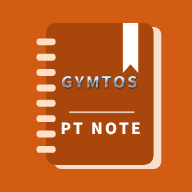
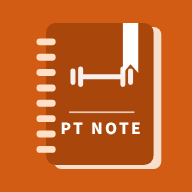
짐토스 로고 전부 뺌: 위 막대 PT NOTE 글자, 앱 아이콘·선생님 아이콘·og.jpg 새로, 안내서·리포트 브랜드
Claude-Session: https://claude.ai/code/session_01RdMHchgwqezTpV2LneVZW2

Changed region(s): [[0.3125, 0.3438, 0.7188, 0.4688]]

diff --git a/404.html b/404.html
@@ -15,7 +15,7 @@
 <link rel="preconnect" href="https://fonts.googleapis.com">
 <link rel="preconnect" href="https://fonts.gstatic.com" crossorigin>
 <link rel="stylesheet" href="https://fonts.googleapis.com/css2?family=Noto+Sans+KR:wght@400;500;700;900&display=swap">
-<link rel="stylesheet" href="/assets/style.css?v=2611201119">
+<link rel="stylesheet" href="/assets/style.css?v=2611201328">
 <!-- 2026-11-12: 선생님 페이지 "＋ 새 회원 노트 만들기"로 만든 회원은 폴더(data.js)가 없음 → GitHub Pages가 이 404.html을 보여 줌.
      주소 /m/<주소>/ 에서 회원 주소를 읽고, 출석 창고 저장소(pub:m:<주소>:profile)에서 노트 정보를 받아 app.js로 그림. -->
 </head>
@@ -24,7 +24,7 @@
   <symbol id="i-check" viewBox="0 0 12 12"><path d="M2.4 6.3 5 8.7l4.6-5.2" fill="none" stroke="#fff" stroke-width="1.9" stroke-linecap="round" stroke-linejoin="round"/></symbol>
   <symbol id="i-x" viewBox="0 0 12 12"><path d="M3.3 3.3l5.4 5.4M8.7 3.3 3.3 8.7" fill="none" stroke="#fff" stroke-width="1.9" stroke-linecap="round"/></symbol>
 </svg>
-<header class="bar"><div class="bar-in"><a href="#home"><img src="../../assets/logo.png" alt="GYMTOS"></a><span id="barName">PT 노트</span></div></header>
+<header class="bar"><div class="bar-in"><a href="#home"><b class="bar-brand">PT NOTE</b></a><span id="barName">PT 노트</span></div></header>
 <main class="wrap"><div class="view" id="view" aria-live="polite"></div></main>
 <nav class="tabs" aria-label="메뉴"><div class="tabs-in">
   <a href="#home" data-tab="home"><svg viewBox="0 0 24 24" fill="none" stroke="currentColor" stroke-width="2" stroke-linejoin="round"><path d="M3.5 10.5 12 4l8.5 6.5V20a1 1 0 0 1-1 1H15v-6H9v6H4.5a1 1 0 0 1-1-1z"/></svg>홈</a>
@@ -33,7 +33,7 @@
   <a href="#diet" data-tab="diet"><svg viewBox="0 0 24 24" fill="none" stroke="currentColor" stroke-width="2" stroke-linecap="round"><circle cx="13" cy="13" r="6.5"/><path d="M4 4v6M6.5 4v6M4 7h2.5M5.2 10v10"/></svg>식단</a>
   <a href="#notice" data-tab="notice"><svg viewBox="0 0 24 24" fill="none" stroke="currentColor" stroke-width="2" stroke-linejoin="round"><path d="M4 10v4h3l6 4V6L7 10z"/><path d="M16.5 9.5a3.5 3.5 0 0 1 0 5M19 7a7 7 0 0 1 0 10" stroke-linecap="round"/></svg>공지</a>
 </div></nav>
-<script src="/assets/site.js?v=2611201119"></script>
+<script src="/assets/site.js?v=2611201328"></script>
 <script>
 (function () {
   var mm = location.pathname.match(/^\/m\/([a-z0-9-]{3,40})\/?$/);
@@ -55,8 +55,8 @@
     if (M.sex === "F") { document.getElementById("tc").setAttribute("content", "#D35C14"); document.getElementById("ic").href = "/assets/icon-f-192.png"; document.getElementById("ati").href = "/assets/icon-f-180.png"; }
     document.documentElement.setAttribute("data-sex", M.sex === "F" ? "F" : "M");
     view.innerHTML = "";
-    var a = document.createElement("script"); a.src = "/assets/exicons.js?v=2611201119";
-    a.onload = a.onerror = function () { var b = document.createElement("script"); b.src = "/assets/app.js?v=2611201119"; document.body.appendChild(b); };
+    var a = document.createElement("script"); a.src = "/assets/exicons.js?v=2611201328";
+    a.onload = a.onerror = function () { var b = document.createElement("script"); b.src = "/assets/app.js?v=2611201328"; document.body.appendChild(b); };
     document.body.appendChild(a);
   }
   var LS = "ptnote:" + slug + ":profile", cached = null;

diff --git a/coach-co8rde/index.html b/coach-co8rde/index.html
@@ -16,8 +16,8 @@
 <link rel="preconnect" href="https://fonts.googleapis.com">
 <link rel="preconnect" href="https://fonts.gstatic.com" crossorigin>
 <link rel="stylesheet" href="https://fonts.googleapis.com/css2?family=Noto+Sans+KR:wght@400;500;700;900&display=swap">
-<link rel="stylesheet" href="/assets/style.css?v=2611201119">
-<script src="/assets/site.js?v=2611201119"></script>
+<link rel="stylesheet" href="/assets/style.css?v=2611201328">
+<script src="/assets/site.js?v=2611201328"></script>
 <style>
 .wrap { padding-bottom: calc(40px + env(safe-area-inset-bottom, 0px)); }
 .sum { display: grid; grid-template-columns: repeat(3, 1fr); gap: 8px; }
@@ -258,7 +258,7 @@ body.pad .mcard.sel .av { outline: 3px solid var(--key); outline-offset: 3px; }
 </style>
 </head>
 <body>
-<header class="bar"><div class="bar-in"><img src="/assets/logo.png" alt="GYMTOS"><div class="bar-r"><span>선생님 페이지</span>
+<header class="bar"><div class="bar-in"><b class="bar-brand">PT NOTE</b><div class="bar-r"><span>선생님 페이지</span>
   <button type="button" class="tmenu" id="tmenu" hidden aria-label="선생님별로 보기" aria-haspopup="dialog"><svg viewBox="0 0 24 24" aria-hidden="true"><path d="M4 7h16M4 12h16M4 17h16" stroke="currentColor" stroke-width="2.4" stroke-linecap="round"/></svg><b id="tmenuLab">전체</b></button></div></div></header>
 <div class="tdraw" id="tdraw" hidden><div class="tdbg" id="tdbg"></div>
   <nav class="tdpanel" role="dialog" aria-modal="true" aria-label="선생님별로 보기"><div class="tdh"><b>선생님별로 보기</b><button type="button" id="tdClose" aria-label="닫기">✕</button></div>
@@ -997,7 +997,7 @@ body.pad .mcard.sel .av { outline: 3px solid var(--key); outline-offset: 3px; }
      2026-11-12 처음엔 Web Worker였는데 아이폰 사파리에서 동욱쌤 회원이 안 보여서 iframe으로 바꿈 */
   var XF = '<!doctype html><meta charset="utf-8"><script>(function(){var d=__D__,t="?t="+Date.now(),o={api:"",members:[]};' +
     'function ld(u){return new Promise(function(ok){var s=document.createElement("script");s.src=u;s.onload=s.onerror=function(){ok()};document.head.appendChild(s);});}' +
-    'ld(d.site+"/assets/site.js?v=2611201119"+t).then(function(){o.api=(window.SITE||{}).att_api||"";return ld(d.site+"/"+d.coach+"/members.js"+t);}).then(function(){' +
+    'ld(d.site+"/assets/site.js?v=2611201328"+t).then(function(){o.api=(window.SITE||{}).att_api||"";return ld(d.site+"/"+d.coach+"/members.js"+t);}).then(function(){' +
     'var L=(window.COACH_MEMBERS||[]).filter(function(x){return /^[a-z0-9-]{3,40}$/.test(x)}),i=0;' +
     'function nx(){if(i>=L.length){parent.postMessage(JSON.stringify({xpt:d.id,o:o}),"*");return;}var sl=L[i++];window.MEMBER=null;' +
     'ld(d.site+"/m/"+sl+"/data.js"+t).then(function(){if(window.MEMBER){try{o.members.push({slug:sl,M:JSON.parse(JSON.stringify(window.MEMBER))});}catch(e){}}nx();});}nx();});})();<\/script>';

diff --git a/m/chaewon-ryfvmy/index.html b/m/chaewon-ryfvmy/index.html
@@ -24,14 +24,14 @@
 <link rel="preconnect" href="https://fonts.gstatic.com" crossorigin>
 <link rel="stylesheet" href="https://fonts.googleapis.com/css2?family=Noto+Sans+KR:wght@400;500;700;900&display=swap">
 <script>/* 페이지 넘어갈 때 부드럽게 (2026-11-12) */try{if(localStorage.getItem("ptcoach")||sessionStorage.getItem("ptcoach"))document.documentElement.classList.add("nosp")}catch(e){}addEventListener("pagereveal",function(e){if(!e.viewTransition)return;var d=null;try{d=sessionStorage.getItem("vtdir");sessionStorage.removeItem("vtdir")}catch(x){}var n=window.navigation&&navigation.activation;if(d==="back"||(d!=="fwd"&&n&&n.navigationType==="traverse"))document.documentElement.classList.add("vt-back");e.viewTransition.finished.then(function(){document.documentElement.classList.remove("vt-back")},function(){})});</script>
-<link rel="stylesheet" href="../../assets/style.css?v=2611201119">
+<link rel="stylesheet" href="../../assets/style.css?v=2611201328">
 </head>
 <body>
 <svg width="0" height="0" style="position:absolute" aria-hidden="true">
   <symbol id="i-check" viewBox="0 0 12 12"><path d="M2.4 6.3 5 8.7l4.6-5.2" fill="none" stroke="#fff" stroke-width="1.9" stroke-linecap="round" stroke-linejoin="round"/></symbol>
   <symbol id="i-x" viewBox="0 0 12 12"><path d="M3.3 3.3l5.4 5.4M8.7 3.3 3.3 8.7" fill="none" stroke="#fff" stroke-width="1.9" stroke-linecap="round"/></symbol>
 </svg>
-<header class="bar"><div class="bar-in"><a href="#home"><img src="../../assets/logo.png" alt="GYMTOS"></a><span>채와와 회원님 PT 노트</span></div></header>
+<header class="bar"><div class="bar-in"><a href="#home"><b class="bar-brand">PT NOTE</b></a><span>채와와 회원님 PT 노트</span></div></header>
 <main class="wrap"><div class="view" id="view" aria-live="polite"></div></main>
 <nav class="tabs" aria-label="메뉴"><div class="tabs-in">
   <a href="#home" data-tab="home"><svg viewBox="0 0 24 24" fill="none" stroke="currentColor" stroke-width="2" stroke-linejoin="round"><path d="M3.5 10.5 12 4l8.5 6.5V20a1 1 0 0 1-1 1H15v-6H9v6H4.5a1 1 0 0 1-1-1z"/></svg>홈</a>
@@ -41,8 +41,8 @@
   <a href="#notice" data-tab="notice"><svg viewBox="0 0 24 24" fill="none" stroke="currentColor" stroke-width="2" stroke-linejoin="round"><path d="M4 10v4h3l6 4V6L7 10z"/><path d="M16.5 9.5a3.5 3.5 0 0 1 0 5M19 7a7 7 0 0 1 0 10" stroke-linecap="round"/></svg>공지</a>
 </div></nav>
 <script src="data.js"></script>
-<script src="../../assets/site.js?v=2611201119"></script>
-<script src="../../assets/exicons.js?v=2611201119"></script>
-<script src="../../assets/app.js?v=2611201119"></script>
+<script src="../../assets/site.js?v=2611201328"></script>
+<script src="../../assets/exicons.js?v=2611201328"></script>
+<script src="../../assets/app.js?v=2611201328"></script>
 </body>
 </html>

diff --git a/m/dahye-dfpttw/index.html b/m/dahye-dfpttw/index.html
@@ -24,14 +24,14 @@
 <link rel="preconnect" href="https://fonts.gstatic.com" crossorigin>
 <link rel="stylesheet" href="https://fonts.googleapis.com/css2?family=Noto+Sans+KR:wght@400;500;700;900&display=swap">
 <script>/* 페이지 넘어갈 때 부드럽게 (2026-11-12) */try{if(localStorage.getItem("ptcoach")||sessionStorage.getItem("ptcoach"))document.documentElement.classList.add("nosp")}catch(e){}addEventListener("pagereveal",function(e){if(!e.viewTransition)return;var d=null;try{d=sessionStorage.getItem("vtdir");sessionStorage.removeItem("vtdir")}catch(x){}var n=window.navigation&&navigation.activation;if(d==="back"||(d!=="fwd"&&n&&n.navigationType==="traverse"))document.documentElement.classList.add("vt-back");e.viewTransition.finished.then(function(){document.documentElement.classList.remove("vt-back")},function(){})});</script>
-<link rel="stylesheet" href="../../assets/style.css?v=2611201119">
+<link rel="stylesheet" href="../../assets/style.css?v=2611201328">
 </head>
 <body>
 <svg width="0" height="0" style="position:absolute" aria-hidden="true">
   <symbol id="i-check" viewBox="0 0 12 12"><path d="M2.4 6.3 5 8.7l4.6-5.2" fill="none" stroke="#fff" stroke-width="1.9" stroke-linecap="round" stroke-linejoin="round"/></symbol>
   <symbol id="i-x" viewBox="0 0 12 12"><path d="M3.3 3.3l5.4 5.4M8.7 3.3 3.3 8.7" fill="none" stroke="#fff" stroke-width="1.9" stroke-linecap="round"/></symbol>
 </svg>
-<header class="bar"><div class="bar-in"><a href="#home"><img src="../../assets/logo.png" alt="GYMTOS"></a><span>이다혜 회원님 PT 노트</span></div></header>
+<header class="bar"><div class="bar-in"><a href="#home"><b class="bar-brand">PT NOTE</b></a><span>이다혜 회원님 PT 노트</span></div></header>
 <main class="wrap"><div class="view" id="view" aria-live="polite"></div></main>
 <nav class="tabs" aria-label="메뉴"><div class="tabs-in">
   <a href="#home" data-tab="home"><svg viewBox="0 0 24 24" fill="none" stroke="currentColor" stroke-width="2" stroke-linejoin="round"><path d="M3.5 10.5 12 4l8.5 6.5V20a1 1 0 0 1-1 1H15v-6H9v6H4.5a1 1 0 0 1-1-1z"/></svg>홈</a>
@@ -41,8 +41,8 @@
   <a href="#notice" data-tab="notice"><svg viewBox="0 0 24 24" fill="none" stroke="currentColor" stroke-width="2" stroke-linejoin="round"><path d="M4 10v4h3l6 4V6L7 10z"/><path d="M16.5 9.5a3.5 3.5 0 0 1 0 5M19 7a7 7 0 0 1 0 10" stroke-linecap="round"/></svg>공지</a>
 </div></nav>
 <script src="data.js"></script>
-<script src="../../assets/site.js?v=2611201119"></script>
-<script src="../../assets/exicons.js?v=2611201119"></script>
-<script src="../../assets/app.js?v=2611201119"></script>
+<script src="../../assets/site.js?v=2611201328"></script>
+<script src="../../assets/exicons.js?v=2611201328"></script>
+<script src="../../assets/app.js?v=2611201328"></script>
 </body>
 </html>

diff --git a/m/eunjeong-tojo9l/index.html b/m/eunjeong-tojo9l/index.html
@@ -24,14 +24,14 @@
 <link rel="preconnect" href="https://fonts.gstatic.com" crossorigin>
 <link rel="stylesheet" href="https://fonts.googleapis.com/css2?family=Noto+Sans+KR:wght@400;500;700;900&display=swap">
 <script>/* 페이지 넘어갈 때 부드럽게 (2026-11-12) */try{if(localStorage.getItem("ptcoach")||sessionStorage.getItem("ptcoach"))document.documentElement.classList.add("nosp")}catch(e){}addEventListener("pagereveal",function(e){if(!e.viewTransition)return;var d=null;try{d=sessionStorage.getItem("vtdir");sessionStorage.removeItem("vtdir")}catch(x){}var n=window.navigation&&navigation.activation;if(d==="back"||(d!=="fwd"&&n&&n.navigationType==="traverse"))document.documentElement.classList.add("vt-back");e.viewTransition.finished.then(function(){document.documentElement.classList.remove("vt-back")},function(){})});</script>
-<link rel="stylesheet" href="../../assets/style.css?v=2611201119">
+<link rel="stylesheet" href="../../assets/style.css?v=2611201328">
 </head>
 <body>
 <svg width="0" height="0" style="position:absolute" aria-hidden="true">
   <symbol id="i-check" viewBox="0 0 12 12"><path d="M2.4 6.3 5 8.7l4.6-5.2" fill="none" stroke="#fff" stroke-width="1.9" stroke-linecap="round" stroke-linejoin="round"/></symbol>
   <symbol id="i-x" viewBox="0 0 12 12"><path d="M3.3 3.3l5.4 5.4M8.7 3.3 3.3 8.7" fill="none" stroke="#fff" stroke-width="1.9" stroke-linecap="round"/></symbol>
 </svg>
-<header class="bar"><div class="bar-in"><a href="#home"><img src="../../assets/logo.png" alt="GYMTOS"></a><span>유은정 회원님 PT 노트</span></div></header>
+<header class="bar"><div class="bar-in"><a href="#home"><b class="bar-brand">PT NOTE</b></a><span>유은정 회원님 PT 노트</span></div></header>
 <main class="wrap"><div class="view" id="view" aria-live="polite"></div></main>
 <nav class="tabs" aria-label="메뉴"><div class="tabs-in">
   <a href="#home" data-tab="home"><svg viewBox="0 0 24 24" fill="none" stroke="currentColor" stroke-width="2" stroke-linejoin="round"><path d="M3.5 10.5 12 4l8.5 6.5V20a1 1 0 0 1-1 1H15v-6H9v6H4.5a1 1 0 0 1-1-1z"/></svg>홈</a>
@@ -41,8 +41,8 @@
   <a href="#notice" data-tab="notice"><svg viewBox="0 0 24 24" fill="none" stroke="currentColor" stroke-width="2" stroke-linejoin="round"><path d="M4 10v4h3l6 4V6L7 10z"/><path d="M16.5 9.5a3.5 3.5 0 0 1 0 5M19 7a7 7 0 0 1 0 10" stroke-linecap="round"/></svg>공지</a>
 </div></nav>
 <script src="data.js"></script>
-<script src="../../assets/site.js?v=2611201119"></script>
-<script src="../../assets/exicons.js?v=2611201119"></script>
-<script src="../../assets/app.js?v=2611201119"></script>
+<script src="../../assets/site.js?v=2611201328"></script>
+<script src="../../assets/exicons.js?v=2611201328"></script>
+<script src="../../assets/app.js?v=2611201328"></script>
 </body>
 </html>

diff --git a/m/heeran-bh16wb/index.html b/m/heeran-bh16wb/index.html
@@ -24,14 +24,14 @@
 <link rel="preconnect" href="https://fonts.gstatic.com" crossorigin>
 <link rel="stylesheet" href="https://fonts.googleapis.com/css2?family=Noto+Sans+KR:wght@400;500;700;900&display=swap">
 <script>/* 페이지 넘어갈 때 부드럽게 (2026-11-12) */try{if(localStorage.getItem("ptcoach")||sessionStorage.getItem("ptcoach"))document.documentElement.classList.add("nosp")}catch(e){}addEventListener("pagereveal",function(e){if(!e.viewTransition)return;var d=null;try{d=sessionStorage.getItem("vtdir");sessionStorage.removeItem("vtdir")}catch(x){}var n=window.navigation&&navigation.activation;if(d==="back"||(d!=="fwd"&&n&&n.navigationType==="traverse"))document.documentElement.classList.add("vt-back");e.viewTransition.finished.then(function(){document.documentElement.classList.remove("vt-back")},function(){})});</script>
-<link rel="stylesheet" href="../../assets/style.css?v=2611201119">
+<link rel="stylesheet" href="../../assets/style.css?v=2611201328">
 </head>
 <body>
 <svg width="0" height="0" style="position:absolute" aria-hidden="true">
   <symbol id="i-check" viewBox="0 0 12 12"><path d="M2.4 6.3 5 8.7l4.6-5.2" fill="none" stroke="#fff" stroke-width="1.9" stroke-linecap="round" stroke-linejoin="round"/></symbol>
   <symbol id="i-x" viewBox="0 0 12 12"><path d="M3.3 3.3l5.4 5.4M8.7 3.3 3.3 8.7" fill="none" stroke="#fff" stroke-width="1.9" stroke-linecap="round"/></symbol>
 </svg>
-<header class="bar"><div class="bar-in"><a href="#home"><img src="../../assets/logo.png" alt="GYMTOS"></a><span>양희란 회원님 PT 노트</span></div></header>
+<header class="bar"><div class="bar-in"><a href="#home"><b class="bar-brand">PT NOTE</b></a><span>양희란 회원님 PT 노트</span></div></header>
 <main class="wrap"><div class="view" id="view" aria-live="polite"></div></main>
 <nav class="tabs" aria-label="메뉴"><div class="tabs-in">
   <a href="#home" data-tab="home"><svg viewBox="0 0 24 24" fill="none" stroke="currentColor" stroke-width="2" stroke-linejoin="round"><path d="M3.5 10.5 12 4l8.5 6.5V20a1 1 0 0 1-1 1H15v-6H9v6H4.5a1 1 0 0 1-1-1z"/></svg>홈</a>
@@ -41,8 +41,8 @@
   <a href="#notice" data-tab="notice"><svg viewBox="0 0 24 24" fill="none" stroke="currentColor" stroke-width="2" stroke-linejoin="round"><path d="M4 10v4h3l6 4V6L7 10z"/><path d="M16.5 9.5a3.5 3.5 0 0 1 0 5M19 7a7 7 0 0 1 0 10" stroke-linecap="round"/></svg>공지</a>
 </div></nav>
 <script src="data.js"></script>
-<script src="../../assets/site.js?v=2611201119"></script>
-<script src="../../assets/exicons.js?v=2611201119"></script>
-<script src="../../assets/app.js?v=2611201119"></script>
+<script src="../../assets/site.js?v=2611201328"></script>
+<script src="../../assets/exicons.js?v=2611201328"></script>
+<script src="../../assets/app.js?v=2611201328"></script>
 </body>
 </html>

diff --git a/m/jihye-693h3o/index.html b/m/jihye-693h3o/index.html
@@ -24,14 +24,14 @@
 <link rel="preconnect" href="https://fonts.gstatic.com" crossorigin>
 <link rel="stylesheet" href="https://fonts.googleapis.com/css2?family=Noto+Sans+KR:wght@400;500;700;900&display=swap">
 <script>/* 페이지 넘어갈 때 부드럽게 (2026-11-12) */try{if(localStorage.getItem("ptcoach")||sessionStorage.getItem("ptcoach"))document.documentElement.classList.add("nosp")}catch(e){}addEventListener("pagereveal",function(e){if(!e.viewTransition)return;var d=null;try{d=sessionStorage.getItem("vtdir");sessionStorage.removeItem("vtdir")}catch(x){}var n=window.navigation&&navigation.activation;if(d==="back"||(d!=="fwd"&&n&&n.navigationType==="traverse"))document.documentElement.classList.add("vt-back");e.viewTransition.finished.then(function(){document.documentElement.classList.remove("vt-back")},function(){})});</script>
-<link rel="stylesheet" href="../../assets/style.css?v=2611201119">
+<link rel="stylesheet" href="../../assets/style.css?v=2611201328">
 </head>
 <body>
 <svg width="0" height="0" style="position:absolute" aria-hidden="true">
   <symbol id="i-check" viewBox="0 0 12 12"><path d="M2.4 6.3 5 8.7l4.6-5.2" fill="none" stroke="#fff" stroke-width="1.9" stroke-linecap="round" stroke-linejoin="round"/></symbol>
   <symbol id="i-x" viewBox="0 0 12 12"><path d="M3.3 3.3l5.4 5.4M8.7 3.3 3.3 8.7" fill="none" stroke="#fff" stroke-width="1.9" stroke-linecap="round"/></symbol>
 </svg>
-<header class="bar"><div class="bar-in"><a href="#home"><img src="../../assets/logo.png" alt="GYMTOS"></a><span>송지혜 회원님 PT 노트</span></div></header>
+<header class="bar"><div class="bar-in"><a href="#home"><b class="bar-brand">PT NOTE</b></a><span>송지혜 회원님 PT 노트</span></div></header>
 <main class="wrap"><div class="view" id="view" aria-live="polite"></div></main>
 <nav class="tabs" aria-label="메뉴"><div class="tabs-in">
   <a href="#home" data-tab="home"><svg viewBox="0 0 24 24" fill="none" stroke="currentColor" stroke-width="2" stroke-linejoin="round"><path d="M3.5 10.5 12 4l8.5 6.5V20a1 1 0 0 1-1 1H15v-6H9v6H4.5a1 1 0 0 1-1-1z"/></svg>홈</a>
@@ -41,8 +41,8 @@
   <a href="#notice" data-tab="notice"><svg viewBox="0 0 24 24" fill="none" stroke="currentColor" stroke-width="2" stroke-linejoin="round"><path d="M4 10v4h3l6 4V6L7 10z"/><path d="M16.5 9.5a3.5 3.5 0 0 1 0 5M19 7a7 7 0 0 1 0 10" stroke-linecap="round"/></svg>공지</a>
 </div></nav>
 <script src="data.js"></script>
-<script src="../../assets/site.js?v=2611201119"></script>
-<script src="../../assets/exicons.js?v=2611201119"></script>
-<script src="../../assets/app.js?v=2611201119"></script>
+<script src="../../assets/site.js?v=2611201328"></script>
+<script src="../../assets/exicons.js?v=2611201328"></script>
+<script src="../../assets/app.js?v=2611201328"></script>
 </body>
 </html>

diff --git a/m/jihyeon-d1xp2n/index.html b/m/jihyeon-d1xp2n/index.html
@@ -24,14 +24,14 @@
 <link rel="preconnect" href="https://fonts.gstatic.com" crossorigin>
 <link rel="stylesheet" href="https://fonts.googleapis.com/css2?family=Noto+Sans+KR:wght@400;500;700;900&display=swap">
 <script>/* 페이지 넘어갈 때 부드럽게 (2026-11-12) */try{if(localStorage.getItem("ptcoach")||sessionStorage.getItem("ptcoach"))document.documentElement.classList.add("nosp")}catch(e){}addEventListener("pagereveal",function(e){if(!e.viewTransition)return;var d=null;try{d=sessionStorage.getItem("vtdir");sessionStorage.removeItem("vtdir")}catch(x){}var n=window.navigation&&navigation.activation;if(d==="back"||(d!=="fwd"&&n&&n.navigationType==="traverse"))document.documentElement.classList.add("vt-back");e.viewTransition.finished.then(function(){document.documentElement.classList.remove("vt-back")},function(){})});</script>
-<link rel="stylesheet" href="../../assets/style.css?v=2611201119">
+<link rel="stylesheet" href="../../assets/style.css?v=2611201328">
 </head>
 <body>
 <svg width="0" height="0" style="position:absolute" aria-hidden="true">
   <symbol id="i-check" viewBox="0 0 12 12"><path d="M2.4 6.3 5 8.7l4.6-5.2" fill="none" stroke="#fff" stroke-width="1.9" stroke-linecap="round" stroke-linejoin="round"/></symbol>
   <symbol id="i-x" viewBox="0 0 12 12"><path d="M3.3 3.3l5.4 5.4M8.7 3.3 3.3 8.7" fill="none" stroke="#fff" stroke-width="1.9" stroke-linecap="round"/></symbol>
 </svg>
-<header class="bar"><div class="bar-in"><a href="#home"><img src="../../assets/logo.png" alt="GYMTOS"></a><span>홍지현 회원님 PT 노트</span></div></header>
+<header class="bar"><div class="bar-in"><a href="#home"><b class="bar-brand">PT NOTE</b></a><span>홍지현 회원님 PT 노트</span></div></header>
 <main class="wrap"><div class="view" id="view" aria-live="polite"></div></main>
 <nav class="tabs" aria-label="메뉴"><div class="tabs-in">
   <a href="#home" data-tab="home"><svg viewBox="0 0 24 24" fill="none" stroke="currentColor" stroke-width="2" stroke-linejoin="round"><path d="M3.5 10.5 12 4l8.5 6.5V20a1 1 0 0 1-1 1H15v-6H9v6H4.5a1 1 0 0 1-1-1z"/></svg>홈</a>
@@ -41,8 +41,8 @@
   <a href="#notice" data-tab="notice"><svg viewBox="0 0 24 24" fill="none" stroke="currentColor" stroke-width="2" stroke-linejoin="round"><path d="M4 10v4h3l6 4V6L7 10z"/><path d="M16.5 9.5a3.5 3.5 0 0 1 0 5M19 7a7 7 0 0 1 0 10" stroke-linecap="round"/></svg>공지</a>
 </div></nav>
 <script src="data.js"></script>
-<script src="../../assets/site.js?v=2611201119"></script>
-<script src="../../assets/exicons.js?v=2611201119"></script>
-<script src="../../assets/app.js?v=2611201119"></script>
+<script src="../../assets/site.js?v=2611201328"></script>
+<script src="../../assets/exicons.js?v=2611201328"></script>
+<script src="../../assets/app.js?v=2611201328"></script>
 </body>
 </html>

diff --git a/m/okgyu-s4os2w/index.html b/m/okgyu-s4os2w/index.html
@@ -24,14 +24,14 @@
 <link rel="preconnect" href="https://fonts.gstatic.com" crossorigin>
 <link rel="stylesheet" href="https://fonts.googleapis.com/css2?family=Noto+Sans+KR:wght@400;500;700;900&display=swap">
 <script>/* 페이지 넘어갈 때 부드럽게 (2026-11-12) */try{if(localStorage.getItem("ptcoach")||sessionStorage.getItem("ptcoach"))document.documentElement.classList.add("nosp")}catch(e){}addEventListener("pagereveal",function(e){if(!e.viewTransition)return;var d=null;try{d=sessionStorage.getItem("vtdir");sessionStorage.removeItem("vtdir")}catch(x){}var n=window.navigation&&navigation.activation;if(d==="back"||(d!=="fwd"&&n&&n.navigationType==="traverse"))document.documentElement.classList.add("vt-back");e.viewTransition.finished.then(function(){document.documentElement.classList.remove("vt-back")},function(){})});</script>
-<link rel="stylesheet" href="../../assets/style.css?v=2611201119">
+<link rel="stylesheet" href="../../assets/style.css?v=2611201328">
 </head>
 <body>
 <svg width="0" height="0" style="position:absolute" aria-hidden="true">
   <symbol id="i-check" viewBox="0 0 12 12"><path d="M2.4 6.3 5 8.7l4.6-5.2" fill="none" stroke="#fff" stroke-width="1.9" stroke-linecap="round" stroke-linejoin="round"/></symbol>
   <symbol id="i-x" viewBox="0 0 12 12"><path d="M3.3 3.3l5.4 5.4M8.7 3.3 3.3 8.7" fill="none" stroke="#fff" stroke-width="1.9" stroke-linecap="round"/></symbol>
 </svg>
-<header class="bar"><div class="bar-in"><a href="#home"><img src="../../assets/logo.png" alt="GYMTOS"></a><span>백옥규 회원님 PT 노트</span></div></header>
+<header class="bar"><div class="bar-in"><a href="#home"><b class="bar-brand">PT NOTE</b></a><span>백옥규 회원님 PT 노트</span></div></header>
 <main class="wrap"><div class="view" id="view" aria-live="polite"></div></main>
 <nav class="tabs" aria-label="메뉴"><div class="tabs-in">
   <a href="#home" data-tab="home"><svg viewBox="0 0 24 24" fill="none" stroke="currentColor" stroke-width="2" stroke-linejoin="round"><path d="M3.5 10.5 12 4l8.5 6.5V20a1 1 0 0 1-1 1H15v-6H9v6H4.5a1 1 0 0 1-1-1z"/></svg>홈</a>
@@ -41,8 +41,8 @@
   <a href="#notice" data-tab="notice"><svg viewBox="0 0 24 24" fill="none" stroke="currentColor" stroke-width="2" stroke-linejoin="round"><path d="M4 10v4h3l6 4V6L7 10z"/><path d="M16.5 9.5a3.5 3.5 0 0 1 0 5M19 7a7 7 0 0 1 0 10" stroke-linecap="round"/></svg>공지</a>
 </div></nav>
 <script src="data.js"></script>
-<script src="../../assets/site.js?v=2611201119"></script>
-<script src="../../assets/exicons.js?v=2611201119"></script>
-<script src="../../assets/app.js?v=2611201119"></script>
+<script src="../../assets/site.js?v=2611201328"></script>
+<script src="../../assets/exicons.js?v=2611201328"></script>
+<script src="../../assets/app.js?v=2611201328"></script>
 </body>
 </html>

diff --git a/m/sample-k7d2qx/index.html b/m/sample-k7d2qx/index.html
@@ -24,14 +24,14 @@
 <link rel="preconnect" href="https://fonts.gstatic.com" crossorigin>
 <link rel="stylesheet" href="https://fonts.googleapis.com/css2?family=Noto+Sans+KR:wght@400;500;700;900&display=swap">
 <script>/* 페이지 넘어갈 때 부드럽게 (2026-11-12) */try{if(localStorage.getItem("ptcoach")||sessionStorage.getItem("ptcoach"))document.documentElement.classList.add("nosp")}catch(e){}addEventListener("pagereveal",function(e){if(!e.viewTransition)return;var d=null;try{d=sessionStorage.getItem("vtdir");sessionStorage.removeItem("vtdir")}catch(x){}var n=window.navigation&&navigation.activation;if(d==="back"||(d!=="fwd"&&n&&n.navigationType==="traverse"))document.documentElement.classList.add("vt-back");e.viewTransition.finished.then(function(){document.documentElement.classList.remove("vt-back")},function(){})});</script>
-<link rel="stylesheet" href="../../assets/style.css?v=2611201119">
+<link rel="stylesheet" href="../../assets/style.css?v=2611201328">
 </head>
 <body>
 <svg width="0" height="0" style="position:absolute" aria-hidden="true">
   <symbol id="i-check" viewBox="0 0 12 12"><path d="M2.4 6.3 5 8.7l4.6-5.2" fill="none" stroke="#fff" stroke-width="1.9" stroke-linecap="round" stroke-linejoin="round"/></symbol>
   <symbol id="i-x" viewBox="0 0 12 12"><path d="M3.3 3.3l5.4 5.4M8.7 3.3 3.3 8.7" fill="none" stroke="#fff" stroke-width="1.9" stroke-linecap="round"/></symbol>
 </svg>
-<header class="bar"><div class="bar-in"><a href="#home"><img src="../../assets/logo.png" alt="GYMTOS"></a><span>홍길동 회원님 PT 노트</span></div></header>
+<header class="bar"><div class="bar-in"><a href="#home"><b class="bar-brand">PT NOTE</b></a><span>홍길동 회원님 PT 노트</span></div></header>
 <main class="wrap"><div class="view" id="view" aria-live="polite"></div></main>
 <nav class="tabs" aria-label="메뉴"><div class="tabs-in">
   <a href="#home" data-tab="home"><svg viewBox="0 0 24 24" fill="none" stroke="currentColor" stroke-width="2" stroke-linejoin="round"><path d="M3.5 10.5 12 4l8.5 6.5V20a1 1 0 0 1-1 1H15v-6H9v6H4.5a1 1 0 0 1-1-1z"/></svg>홈</a>
@@ -41,8 +41,8 @@
   <a href="#notice" data-tab="notice"><svg viewBox="0 0 24 24" fill="none" stroke="currentColor" stroke-width="2" stroke-linejoin="round"><path d="M4 10v4h3l6 4V6L7 10z"/><path d="M16.5 9.5a3.5 3.5 0 0 1 0 5M19 7a7 7 0 0 1 0 10" stroke-linecap="round"/></svg>공지</a>
 </div></nav>
 <script src="data.js"></script>
-<script src="../../assets/site.js?v=2611201119"></script>
-<script src="../../assets/exicons.js?v=2611201119"></script>
-<script src="../../assets/app.js?v=2611201119"></script>
+<script src="../../assets/site.js?v=2611201328"></script>
+<script src="../../assets/exicons.js?v=2611201328"></script>
+<script src="../../assets/app.js?v=2611201328"></script>
 </body>
 </html>

diff --git a/assets/app.js b/assets/app.js
@@ -2221,7 +2221,7 @@
     }
     var bdgs = R.badges.slice(0, 4).map(function (b) { return bgIcon(b, "#0E0E10"); }).join("");
     return '<div class="rp" id="rp"><i class="rp-stripe"></i><i class="rp-c1"></i><i class="rp-c2"></i>' +
-      '<div class="rp-top"><div class="rp-brand"><b>' + esc(BRAND) + '</b><span>' + esc(BRANCH) + '</span></div><span class="rp-k">MONTHLY REPORT · ' + R.y + '. ' + pad2(R.mo) + '</span></div>' +
+      '<div class="rp-top"><div class="rp-brand"><b>MY PT NOTE</b><span>' + esc(BRANCH) + '</span></div><span class="rp-k">MONTHLY REPORT · ' + R.y + '. ' + pad2(R.mo) + '</span></div>' +
       '<div class="rp-title"><span>' + esc(M.name) + ' 회원님의</span><h2>' + R.mo + '월 운동 리포트</h2>' + (R.live ? '<em>' + R.upto + ' 기준 · 진행 중</em>' : '') + '</div>' +
       '<div class="rp-tiles">' + tile("출석", R.done, "회", "pk") + tile("출석률", R.rate, "%") + tile("최고 연속", R.best, "회") + tile("새 배지", R.badges.length, "개", "gd") + '</div>' +
       '<div class="rp-mid"><div class="rp-map"><h4>' + R.mo + '월 근육 지도</h4>' + mmFigure(R.mc.cnt, R.mo + "월 근육 지도") +
@@ -2529,7 +2529,7 @@
     }
     var d = new Date();
     return '<div class="rp gr" id="rp"><i class="rp-stripe"></i><i class="rp-c1"></i><i class="rp-c2"></i>' +
-      '<div class="rp-top"><div class="rp-brand"><b>' + esc(BRAND) + '</b><span>' + esc(BRANCH) + '</span></div><span class="rp-k">MY GROWTH · ' + d.getFullYear() + '. ' + pad2(d.getMonth() + 1) + '. ' + pad2(d.getDate()) + '</span></div>' +
+      '<div class="rp-top"><div class="rp-brand"><b>MY PT NOTE</b><span>' + esc(BRANCH) + '</span></div><span class="rp-k">MY GROWTH · ' + d.getFullYear() + '. ' + pad2(d.getMonth() + 1) + '. ' + pad2(d.getDate()) + '</span></div>' +
       '<div class="rp-title"><span>' + esc(M.name) + ' 회원님의</span><h2>첫날 vs 오늘</h2>' +
       (G.st ? '<em>' + G.st.getFullYear() + '. ' + (G.st.getMonth() + 1) + '. ' + G.st.getDate() + ' 시작 · 함께한 지 ' + G.days + '일</em>' : '') + '</div>' +
       '<div class="rp-tiles">' + tile("함께한 날", G.days, "일", "pk") + tile("출석 도장", G.att, "회") + tile("배운 자세", G.forms, "개") + tile("받은 배지", G.badges, "개", "gd") + '</div>' +

diff --git a/coach-co8rde/intro.html b/coach-co8rde/intro.html
@@ -108,7 +108,7 @@ body { font-family: 'Noto Sans KR', 'Apple SD Gothic Neo', sans-serif; touch-act
 <img src="guide/placeholder.svg" alt="박현규 트레이너 프로필 사진" style="position:absolute;left:1100px;top:0px;width:820px;height:1080px;object-fit:cover">
 <div style="position:absolute;left:1100px;top:0px;width:300px;height:1080px;background:linear-gradient(90deg, #111113 0%, rgba(15,27,51,0) 100%)"></div>
 <div style="position:absolute;left:0px;top:0px;width:1920px;height:12px;background:linear-gradient(90deg, #8E6A2E 0%, #E8C766 50%, #E3B341 100%)"></div>
-<img src="../assets/logo.png" alt="GYMTOS 로고" style="position:absolute;left:128px;top:96px;width:270px;height:50px;object-fit:contain">
+
 <div style="width:940px;display:flex;flex-direction:column;gap:20px">
 <p style="font-family:Oswald, 'Noto Sans KR', sans-serif;font-size:26px;font-weight:600;letter-spacing:5px;color:#E8C766">PERSONAL TRAINER · 짐토스24 도당점</p>
 <h1 style="font-size:76px;font-weight:900;line-height:1.15;letter-spacing:-2px;color:#F4F4F5">운동은 1시간,<br>변화는 나머지<br><span style="color:#E8C766">23시간</span>에.</h1>
